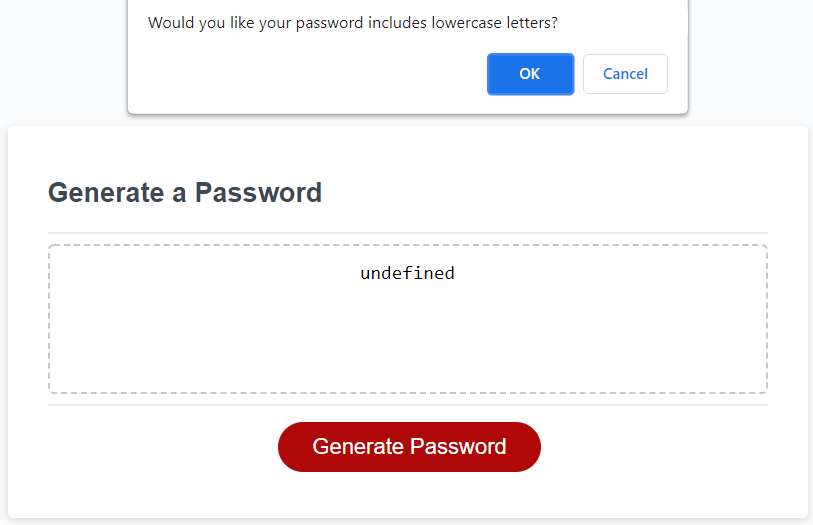
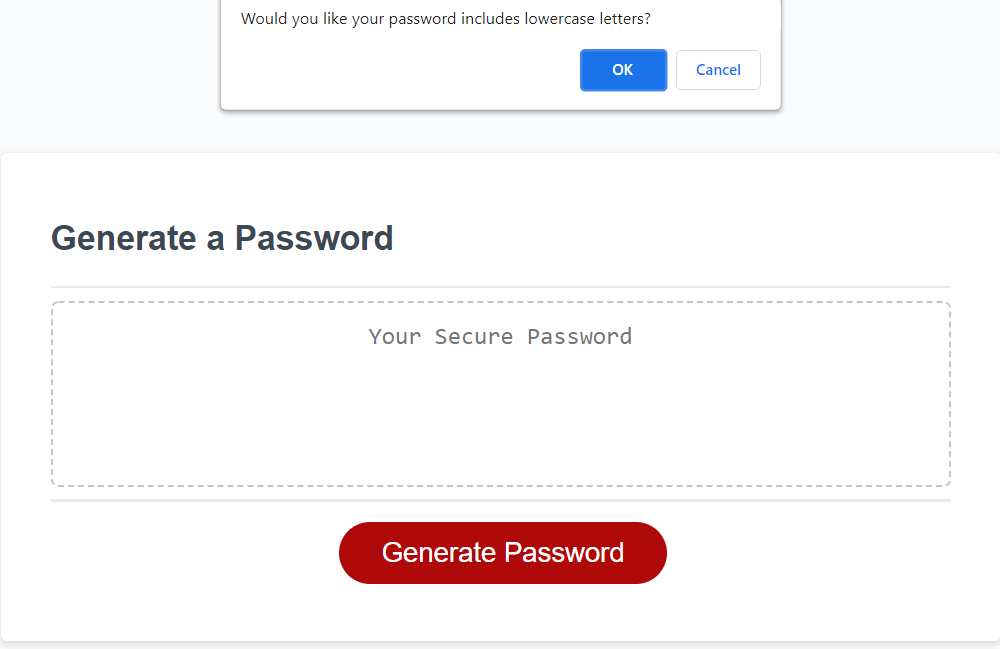
error fixed, readme updated

diff --git a/js/script.js b/js/script.js
@@ -21,7 +21,7 @@ var toIncludeSpecial;
 var toIncludeLowercase;
 var toIncludeUppercase;
 
-//Array
+//Array stores character type
 var numericArray;
 var specialCharacterArray;
 var lowercaseArray;
@@ -50,6 +50,8 @@ function generatePassword(){
                 }
                 
             }else{
+                //function call saved in these variable below
+                //prompt users whether or not to include the character type(s)
                 numeric = toIncludeNumberMethod();
                 specialCharacter = toIncludeSpecialrMethod();
                 lowercaseLetter = toIncludeLowercaseMethod();
@@ -64,6 +66,7 @@ function generatePassword(){
                         return;
                     }
                 }else{
+                    //return the generated password
                     validationResult = validation();
                     return validationResult;
                 }    
@@ -84,9 +87,7 @@ function generatePassword(){
 
 //Generate Numbers
 function toIncludeNumberMethod(){
-
     toIncludeNumber = confirm("Would you like your password includes number?");
-    
     if(toIncludeNumber){
         var assignedNumber = ["0","1","2","3","4","5","6","7","8","9"]
         numericArray = new Array(passLength);
@@ -95,7 +96,6 @@ function toIncludeNumberMethod(){
             numericArray[i] = assignedNumber[index];
         }
         return numericArray;
-        
     }else{
         return toIncludeNumber;
     }
@@ -157,8 +157,9 @@ function toIncludeUppercaseMethod(){
 }
 
 //Check the input of character types
+//false means not include the type, true means include the type
 function validation(){
-    if(toIncludeNumber === false && toIncludeSpecial === true && toIncludeLowercase ==true && toIncludeUppercase === true ){
+    if(toIncludeNumber === false && toIncludeSpecial === true && toIncludeLowercase ==true && toIncludeUppercase === true){
         console.log("No Numeric");
         var preGenerated = specialCharacter +","+ lowercaseLetter +","+ uppercaseLetter;
         var removeComma = preGenerated.replaceAll(",","");
@@ -166,9 +167,11 @@ function validation(){
         for(var i = 0; i < passLength; i++){
             var index = Math.floor(Math.random() * removeComma.length);
             actualPassword = actualPassword + removeComma[index];
+            
         }
-        console.log(actualPassword);
-        return actualPassword;
+
+        //substring(10) that it is to eliminate the undefined output
+        return actualPassword.substring(10);
     }else if( toIncludeNumber === true && toIncludeSpecial === false&& toIncludeLowercase ==true && toIncludeUppercase === true){
         console.log("No Special Characters");
         var preGenerated = numeric +","+ lowercaseLetter +","+uppercaseLetter;
@@ -178,10 +181,9 @@ function validation(){
             var index = Math.floor(Math.random() * removeComma.length);
             actualPassword = actualPassword + removeComma[index];
         }
-        console.log(actualPassword);
+        
         return actualPassword;
     }else if(toIncludeNumber === true && toIncludeSpecial ==true && toIncludeLowercase === false &&  toIncludeUppercase === true){
-        //not working correctly, it prints lowercase
         console.log("No Lowercase");
         var preGenerated = specialCharacter +","+ numeric +","+uppercaseLetter;
         var removeComma = preGenerated.replaceAll(",","");
@@ -190,9 +192,9 @@ function validation(){
             var index = Math.floor(Math.random() * removeComma.length);
             actualPassword = actualPassword + removeComma[index];
         }
-        console.log(actualPassword);
+        
         return actualPassword;           
-    }else if(toIncludeNumber === true && toIncludeSpecial === true && toIncludeLowercase ==true && toIncludeUppercase === false   ){
+    }else if(toIncludeNumber === true && toIncludeSpecial === true && toIncludeLowercase ==true && toIncludeUppercase === false){
         console.log("No Uppercase");
         var preGenerated = specialCharacter +","+ lowercaseLetter +","+numeric;
         var removeComma = preGenerated.replaceAll(",","");
@@ -201,7 +203,7 @@ function validation(){
             var index = Math.floor(Math.random() * removeComma.length);
             actualPassword = actualPassword + removeComma[index];
         }
-        console.log(actualPassword);
+        
         return actualPassword;           
     }
     else if(toIncludeNumber === false && toIncludeSpecial === false  && toIncludeLowercase ==true && toIncludeUppercase === true){
@@ -213,7 +215,7 @@ function validation(){
             var index = Math.floor(Math.random() * removeComma.length);
             actualPassword = actualPassword + removeComma[index];
         }
-        console.log(actualPassword);
+        
         return actualPassword;
     }else if(toIncludeNumber === true && toIncludeSpecial === true  && toIncludeLowercase ==false && toIncludeUppercase === false){
         console.log("No Lowercase and Uppercase");
@@ -224,7 +226,7 @@ function validation(){
             var index = Math.floor(Math.random() * removeComma.length);
             actualPassword = actualPassword + removeComma[index];
         }
-        console.log(actualPassword);
+        
         return actualPassword;
     }else if(toIncludeNumber === true && toIncludeSpecial === false  && toIncludeLowercase == false && toIncludeUppercase === true){
         console.log("No Lowercase and Special Characters");
@@ -235,7 +237,7 @@ function validation(){
             var index = Math.floor(Math.random() * removeComma.length);
             actualPassword = actualPassword + removeComma[index];
         }
-        console.log(actualPassword);
+        
         return actualPassword;
     }
     else if(toIncludeNumber === false && toIncludeSpecial === true && toIncludeLowercase === false && toIncludeUppercase ==true){
@@ -247,7 +249,7 @@ function validation(){
             var index = Math.floor(Math.random() * removeComma.length);
             actualPassword = actualPassword + removeComma[index];
         }
-        console.log(actualPassword);
+        
         return actualPassword;
     }else if(toIncludeNumber === false && toIncludeSpecial === true && toIncludeLowercase ==true && toIncludeUppercase === false){
         console.log("No Numeric and Uppercase");
@@ -258,7 +260,7 @@ function validation(){
             var index = Math.floor(Math.random() * removeComma.length);
             actualPassword = actualPassword + removeComma[index];
         }
-        console.log(actualPassword);
+        
         return actualPassword;
     }else if(toIncludeNumber === true && toIncludeSpecial === false && toIncludeLowercase ==true && toIncludeUppercase === false){
         console.log("No Special Characters and Uppercase");
@@ -269,7 +271,7 @@ function validation(){
             var index = Math.floor(Math.random() * removeComma.length);
             actualPassword = actualPassword + removeComma[index];
         }
-        console.log(actualPassword);
+        
         return actualPassword;
     }
     else if(toIncludeNumber === false && toIncludeSpecial === false && toIncludeLowercase === false && toIncludeUppercase === true){
@@ -279,35 +281,35 @@ function validation(){
             var index = Math.floor(Math.random() * uppercaseLetter.length);
             actualPassword = actualPassword + uppercaseLetter[index];
         }
-        console.log(actualPassword);
+        
         return actualPassword;
     }
-    else if(toIncludeNumber === false && toIncludeSpecial === false &&  toIncludeLowercase === true && toIncludeUppercase === false ){
+    else if(toIncludeNumber === false && toIncludeSpecial === false &&  toIncludeLowercase === true && toIncludeUppercase === false){
         console.log("No Numeric, Special Characters and Uppercase");
         var actualPassword = new Array();
         for(var i = 0; i < passLength; i++){
             var index = Math.floor(Math.random() * lowercaseLetter.length);
             actualPassword = actualPassword + lowercaseLetter[index];
         }
-        console.log(actualPassword);
+        
         return actualPassword;
-    }else if(toIncludeNumber === false && toIncludeSpecial === true && toIncludeLowercase === false && toIncludeUppercase === false ){
+    }else if(toIncludeNumber === false && toIncludeSpecial === true && toIncludeLowercase === false && toIncludeUppercase === false){
         console.log("No Numeric, Lowercase and Uppercase");
         var actualPassword = new Array();
         for(var i = 0; i < passLength; i++){
             var index = Math.floor(Math.random() * specialCharacter.length);
             actualPassword = actualPassword + specialCharacter[index];
         }
-        console.log(actualPassword);
+        
         return actualPassword;
-    }   else if(toIncludeNumber === true  && toIncludeSpecial === false && toIncludeLowercase === false && toIncludeUppercase === false ){
+    }   else if(toIncludeNumber === true  && toIncludeSpecial === false && toIncludeLowercase === false && toIncludeUppercase === false){
             console.log("No Special Character, Lowercase and Uppercase");
             var actualPassword = new Array();
             for(var i = 0; i < passLength; i++){
                 var index = Math.floor(Math.random() * numeric.length);
                 actualPassword = actualPassword + numeric[index];
             }
-            console.log(actualPassword);
+            
             return actualPassword;}
     else {
         console.log("Includes all four character type Numeric, Special Characters, Lowercase and Uppercase");
@@ -318,7 +320,7 @@ function validation(){
             var index = Math.floor(Math.random() * removeComma.length);
             actualPassword = actualPassword + removeComma[index];
         }
-        console.log(actualPassword);
+        
         return actualPassword;
     }
 }

diff --git a/README.md b/README.md
@@ -5,12 +5,13 @@
 ## Description
 This is a password generator that generates the password randomly. </br></br>
 
-The application has several functionalities:</br>
-    1) Prompt window for user to input.</br>
-    2) Check the length of password which it has to be at least 8 characters
+It is a password generator application that it has several functionalities:</br>
+    1) It has a button to generate password randomly</br>
+    2) Ask user to input the length of password
+    3) Check the length of password which it has to be at least 8 characters
        and no more than 128 characters.</br>
-    3) Users are able to confirm whether or not to include character types.</br>
-    4) Check the input that it has to be at least one character type in the
+    4) Users are able to confirm whether or not to include character types.</br>
+    5) Check the input that it has to be at least one character type in the
        password.</br></br>
        
     
@@ -22,13 +23,24 @@ There are four type of character in the password:</br>
 
 ## Screenshot
 <p>
-    <img src="image\homepage.PNG" />
-    <img src="image\length.PNG" />
-    <img src="image\num.PNG" />
-    <img src="image\sp.PNG" />
-    <img src="image\lc.PNG" />
-    <img src="image\uc.PNG" />
-    <img src="image\password.PNG" />
+    <img src="image\homepage.PNG" /></br></br>
+    <img src="image\length.PNG" /></br></br>
+    <img src="image\num.PNG" /></br></br>
+    <img src="image\sp.PNG" /></br></br>
+    <img src="image\lc.PNG" /></br></br>
+    <img src="image\uc.PNG" /></br></br>
+    <img src="image\password.PNG" /></br></br>
+</p>
+
+## Executed When No Length Is Inputed
+<p>
+    <img src="image\noInputLength.PNG" /></br></br>  
+</p>
+
+## Executed When No Character Type Is Inputed
+<p>
+    <img src="image\noInputChType.PNG" /></br></br>
+    <img src="image\startover.PNG" /></br></br>
 </p>
 
 
